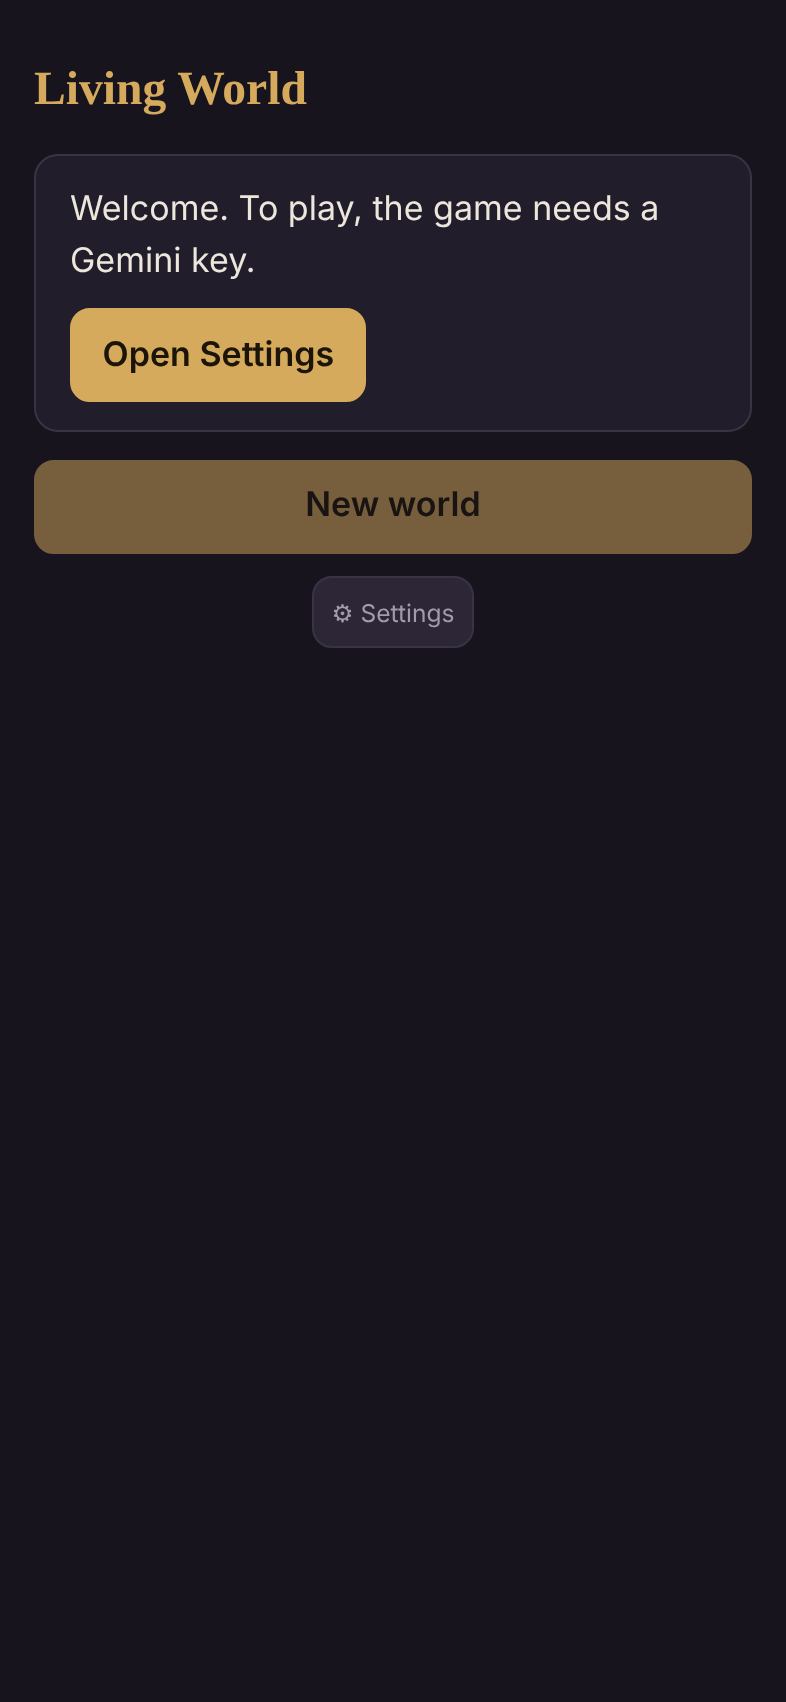
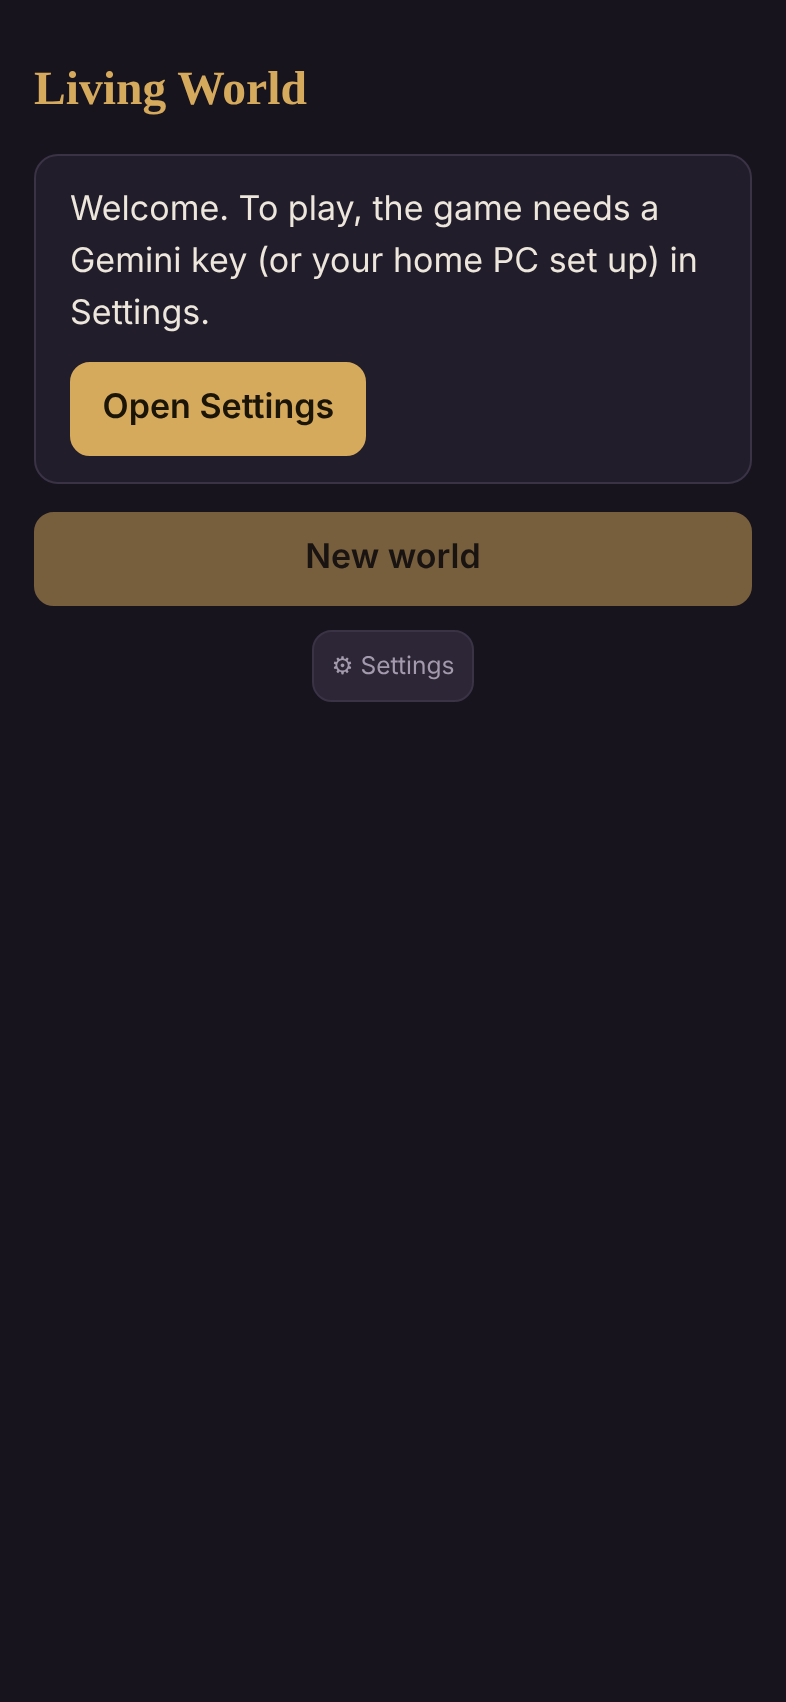
Add Home PC text service (LM Studio or any OpenAI-style server)
Settings gets a choice of Gemini or Home PC, with the PC address, model
(listed from the PC) and optional key. The PC provider uses the
OpenAI-style chat API, asks for JSON answer shapes and falls back to a
plain request if the server refuses them, strips <think> blocks, pulls
JSON out of chatty replies, and explains plainly when the PC cannot be
reached. One model serves every job with no daily allowance.

Claude-Session: https://claude.ai/code/session_01KTifMWeXgEsckXU37s3UBw

diff --git a/js/providers/openai-compat.js b/js/providers/openai-compat.js
@@ -1,0 +1,139 @@
+// Home PC text provider. Talks to a model running on the player's own computer
+// through the OpenAI-style API that LM Studio, Ollama and similar programs offer.
+// Nothing here leaves the player's own devices.
+
+import { salvageNarration } from './gemini.js';
+
+function fail(kind, message, extra = {}) {
+  return { ok: false, kind, message, ...extra };
+}
+
+/** Converts the game's answer shapes (Gemini style) into standard JSON Schema. */
+export function toJsonSchema(schema) {
+  if (!schema || typeof schema !== 'object') return schema;
+  const out = {};
+  if (schema.type) out.type = String(schema.type).toLowerCase();
+  if (schema.description) out.description = schema.description;
+  if (schema.enum) out.enum = schema.enum;
+  if (schema.properties) out.properties = Object.fromEntries(Object.entries(schema.properties).map(([k, v]) => [k, toJsonSchema(v)]));
+  if (schema.required) out.required = schema.required;
+  if (schema.items) out.items = toJsonSchema(schema.items);
+  return out;
+}
+
+/** The narrator's reply: free-form change objects, so only the outer shape is fixed. */
+const NARRATION_SHAPE = {
+  type: 'object',
+  properties: { prose: { type: 'string' }, changes: { type: 'array', items: { type: 'object' } } },
+  required: ['prose', 'changes'],
+};
+
+export function cleanBase(url) {
+  let u = String(url || '').trim().replace(/\/+$/, '');
+  if (!u) return '';
+  if (!/^https?:\/\//i.test(u)) u = 'https://' + u;
+  return u.replace(/\/v1$/, '');
+}
+
+function stripThinking(text) {
+  return text.replace(/<think>[\s\S]*?<\/think>/gi, '').replace(/^[\s\S]*<\/think>/i, '').trim();
+}
+
+/** Pulls the JSON object out of a reply that may have chatter or fences around it. */
+export function extractJson(text) {
+  const t = text.replace(/^```(?:json)?\s*/i, '').replace(/\s*```\s*$/, '').trim();
+  try { return JSON.parse(t); } catch { /* look for an object inside */ }
+  const start = t.indexOf('{');
+  const end = t.lastIndexOf('}');
+  if (start >= 0 && end > start) {
+    try { return JSON.parse(t.slice(start, end + 1)); } catch { /* fall through */ }
+  }
+  return undefined;
+}
+
+/** Turns an HTTP status and body into the same result shape the Gemini provider gives. Pure. */
+export function interpretChat(status, body, { json } = {}) {
+  const apiMsg = body?.error?.message || (typeof body?.error === 'string' ? body.error : '');
+  if (status === 401 || status === 403) return fail('bad_key', 'Your PC refused the request. If you set an API key in its server, put the same key in Settings.', { detail: apiMsg });
+  if (status === 404) return fail('bad_model', `Your PC does not have that model loaded. Open Settings and tap "Check connection" to pick one. ${apiMsg}`.trim(), { detail: apiMsg });
+  if (status >= 500) return fail('server', `Your PC's model server had a problem (code ${status}). ${apiMsg}`.trim(), { detail: apiMsg, retryable: true });
+  if (status !== 200) return fail('error', `Your PC's model server returned an error (code ${status}). ${apiMsg}`.trim(), { detail: apiMsg, retryable: true });
+  const choice = body?.choices?.[0];
+  const raw = choice?.message?.content ?? choice?.text ?? '';
+  const text = stripThinking(String(raw));
+  if (!text) return fail('empty', 'The model on your PC sent back an empty reply. Nothing in your game changed. Resend to try again.', { retryable: true });
+  const truncated = choice?.finish_reason === 'length';
+  if (json) {
+    const data = extractJson(text);
+    if (data !== undefined && data !== null && typeof data === 'object') return { ok: true, text, data, truncated };
+    const rescued = salvageNarration(text);
+    if (rescued) return { ok: true, text, data: rescued, truncated, salvaged: true };
+    return fail('bad_json', truncated
+      ? 'The model on your PC ran out of room before finishing. Resend, or raise the context length in LM Studio.'
+      : 'The model on your PC sent back a reply the game could not read. Resend to try again.', { detail: text.slice(0, 500), retryable: true });
+  }
+  return { ok: true, text, truncated };
+}
+
+export function createOpenAICompatProvider({ getBase, getKey = () => '', fetchFn = (...a) => fetch(...a) }) {
+  const headers = () => {
+    const h = { 'Content-Type': 'application/json' };
+    if (getKey()) h.Authorization = `Bearer ${getKey()}`;
+    return h;
+  };
+  const unreachable = (base) => fail('network',
+    `Could not reach your PC at ${base}. Check that the PC is on, LM Studio's server is running with CORS on, and Tailscale is connected on both the PC and this phone.`,
+    { retryable: true });
+
+  return {
+    id: 'pc',
+    label: 'Home PC (LM Studio)',
+
+    async generate(req) {
+      const base = cleanBase(getBase());
+      if (!base) return fail('no_key', 'No home PC address yet. Open Settings and enter it.');
+      const messages = [];
+      if (req.system) messages.push({ role: 'system', content: req.system });
+      for (const m of req.messages) messages.push({ role: m.role === 'model' ? 'assistant' : 'user', content: m.text });
+      const body = { messages, stream: false };
+      if (req.model) body.model = req.model;
+      if (req.temperature != null) body.temperature = req.temperature;
+      if (req.maxTokens) body.max_tokens = req.maxTokens;
+      if (req.json) {
+        const schema = req.json === true ? NARRATION_SHAPE : toJsonSchema(req.json);
+        body.response_format = { type: 'json_schema', json_schema: { name: 'reply', schema } };
+      }
+      const post = (b) => fetchFn(`${base}/v1/chat/completions`, { method: 'POST', headers: headers(), body: JSON.stringify(b), signal: req.signal });
+      try {
+        let res = await post(body);
+        let parsed = await res.json().catch(() => null);
+        // Some servers do not support answer shapes: ask again with the shape only in words.
+        if (res.status === 400 && body.response_format) {
+          delete body.response_format;
+          messages[0] = { ...messages[0], content: `${messages[0].content}\n\nReply with a single JSON object only, no other text.` };
+          res = await post(body);
+          parsed = await res.json().catch(() => null);
+        }
+        return { ...interpretChat(res.status, parsed, req), status: res.status };
+      } catch (err) {
+        if (err && err.name === 'AbortError') return fail('aborted', 'Request cancelled.');
+        return { ...unreachable(base), detail: String(err) };
+      }
+    },
+
+    async listModels() {
+      const base = cleanBase(getBase());
+      if (!base) return fail('no_key', 'Enter your PC\'s address first.');
+      try {
+        const res = await fetchFn(`${base}/v1/models`, { headers: headers() });
+        const body = await res.json().catch(() => null);
+        if (res.status !== 200) return interpretChat(res.status, body, {});
+        const models = (body?.data || []).map((m) => ({ id: m.id, name: m.id }))
+          .filter((m) => !/embed/i.test(m.id));
+        return { ok: true, models };
+      } catch (err) {
+        return { ...unreachable(base), detail: String(err) };
+      }
+    },
+  };
+}

diff --git a/js/ui/settings-screen.js b/js/ui/settings-screen.js
@@ -51,7 +51,7 @@ export async function openSettings({ onClose } = {}) {
   async function checkKey() {
     await saveKey(true);
     keyStatus.textContent = 'Checking…';
-    const narrator = await getNarrator();
+    const narrator = await getNarrator('gemini');
     const res = await narrator.listModels();
     if (!res.ok) { keyStatus.textContent = res.message; keyStatus.className = 'hint bad'; return; }
     const ids = res.models.map((m) => m.id);
@@ -83,6 +83,51 @@ export async function openSettings({ onClose } = {}) {
     toast('Saved');
   }
 
+  // ----- Which service runs the game master -----
+  const pcUrl = h('input', { value: s.pcUrl, placeholder: 'https://your-pc.tail1234.ts.net', autocapitalize: 'off', spellcheck: false, inputmode: 'url' });
+  const pcModelList = h('datalist#pc-model-list');
+  const pcModel = h('input', { value: s.pcModel, list: 'pc-model-list', placeholder: 'Tap Check connection', autocapitalize: 'off', spellcheck: false });
+  const pcKey = h('input', { type: 'password', value: s.pcKey, placeholder: 'Leave blank unless you set one', autocomplete: 'off', autocapitalize: 'off', spellcheck: false });
+  const pcStatus = h('p.hint');
+  const pcBox = h('div', { style: { display: s.provider === 'pc' ? '' : 'none' } },
+    h('label', 'PC address', pcUrl),
+    h('label', 'Model', pcModel),
+    h('label', 'Key (optional)', pcKey),
+    pcModelList,
+    h('div.row', h('button.primary', { type: 'button', onclick: () => checkPc() }, 'Check connection')),
+    pcStatus);
+
+  async function savePc() {
+    await saveSettings({ pcUrl: pcUrl.value.trim(), pcModel: pcModel.value.trim(), pcKey: pcKey.value.trim() });
+  }
+  [pcUrl, pcModel, pcKey].forEach((el) => el.addEventListener('change', savePc));
+
+  async function checkPc() {
+    await savePc();
+    pcStatus.className = 'hint';
+    pcStatus.textContent = 'Checking…';
+    const res = await (await getNarrator('pc')).listModels();
+    if (!res.ok) { pcStatus.className = 'hint bad'; pcStatus.textContent = res.message; return; }
+    pcModelList.replaceChildren(...res.models.map((m) => h('option', { value: m.id })));
+    if (!res.models.length) { pcStatus.className = 'hint bad'; pcStatus.textContent = 'Connected, but no model is loaded in LM Studio. Load one and check again.'; return; }
+    if (!res.models.some((m) => m.id === pcModel.value.trim())) {
+      pcModel.value = res.models[0].id;
+      await savePc();
+    }
+    pcStatus.className = 'hint good';
+    pcStatus.textContent = `Connected. Using ${pcModel.value}.`;
+  }
+
+  const serviceButtons = NARRATOR_PROVIDERS.map((p) => h('button.seg', {
+    type: 'button',
+    class: s.provider === p.id ? 'seg on' : 'seg',
+    onclick: async (e) => {
+      await saveSettings({ provider: p.id });
+      serviceButtons.forEach((b) => b.classList.toggle('on', b === e.currentTarget));
+      pcBox.style.display = p.id === 'pc' ? '' : 'none';
+    },
+  }, p.id === 'pc' ? 'Home PC' : 'Gemini'));
+
   const sizeButtons = ['small', 'medium', 'large', 'huge'].map((size) => h('button.seg', {
     type: 'button',
     class: s.textSize === size ? 'seg on' : 'seg',
@@ -101,7 +146,12 @@ export async function openSettings({ onClose } = {}) {
       h('div.row', h('button', { type: 'button', onclick: saveKey }, 'Save key'), h('button.primary', { type: 'button', onclick: checkKey }, 'Check key')),
       keyStatus),
     h('section',
-      h('h3', 'Requests used today'),
+      h('h3', 'Game master runs on'),
+      h('div.segmented', serviceButtons),
+      h('p.hint', 'Gemini: free, but Google\'s filter can block explicit scenes. Home PC: private and unfiltered, needs your PC on.'),
+      pcBox),
+    h('section',
+      h('h3', 'Gemini requests used today'),
       usageBox),
     h('section',
       h('h3', 'Text size'),
@@ -109,9 +159,7 @@ export async function openSettings({ onClose } = {}) {
     ...extraSections.map((build) => build()),
     h('section',
       h('details',
-        h('summary', 'Providers and models'),
-        h('label', 'Text provider',
-          h('select', { disabled: NARRATOR_PROVIDERS.length < 2 }, NARRATOR_PROVIDERS.map((p) => h('option', { value: p.id, selected: p.id === s.provider }, p.label)))),
+        h('summary', 'Gemini models and limits'),
         h('label', 'Game-master model (every turn)', gmModel),
         h('label', 'World-building model (world, summaries)', worldModel),
         h('label', 'Game-master daily limit', gmLimit),
@@ -119,7 +167,7 @@ export async function openSettings({ onClose } = {}) {
         modelList,
         h('p.hint', 'Tap "Check key" above to fill in the list of models your key can use.'),
         h('button', { type: 'button', onclick: saveModels }, 'Save models and limits'))),
-    h('p.hint.center', 'Living World · stage 1 · build 12'));
+    h('p.hint.center', 'Living World · stage 1 · build 13'));
 
   renderUsage();
   return overlay('Settings', body, { onClose: () => { unsubscribe(); onClose && onClose(); } });

diff --git a/tests/openai-compat.test.js b/tests/openai-compat.test.js
@@ -1,0 +1,56 @@
+import { test } from 'node:test';
+import assert from 'node:assert/strict';
+import { createOpenAICompatProvider, interpretChat, toJsonSchema, cleanBase, extractJson } from '../js/providers/openai-compat.js';
+
+const reply = (content, finish = 'stop') => ({ choices: [{ message: { content }, finish_reason: finish }] });
+
+test('address is cleaned up', () => {
+  assert.equal(cleanBase('my-pc.tail1.ts.net/'), 'https://my-pc.tail1.ts.net');
+  assert.equal(cleanBase('https://x.ts.net/v1'), 'https://x.ts.net');
+  assert.equal(cleanBase('http://192.168.1.5:1234'), 'http://192.168.1.5:1234');
+});
+
+test('json replies are read even with chatter or thinking around them', () => {
+  assert.deepEqual(interpretChat(200, reply('<think>hmm</think>\n{"prose":"Hi","changes":[]}'), { json: true }).data, { prose: 'Hi', changes: [] });
+  assert.deepEqual(extractJson('Sure! Here it is:\n```json\n{"a":1}\n```'), { a: 1 });
+  assert.equal(interpretChat(200, reply('no json here'), { json: true }).kind, 'bad_json');
+  assert.equal(interpretChat(200, reply('   '), {}).kind, 'empty');
+});
+
+test('schemas are converted to standard JSON Schema', () => {
+  const s = toJsonSchema({ type: 'OBJECT', properties: { k: { type: 'STRING', format: 'enum', enum: ['a'] } }, required: ['k'] });
+  assert.deepEqual(s, { type: 'object', properties: { k: { type: 'string', enum: ['a'] } }, required: ['k'] });
+});
+
+test('sends an OpenAI-style request and retries without an answer shape if refused', async () => {
+  const bodies = [];
+  const fetchFn = async (url, opts) => {
+    assert.equal(url, 'https://pc.ts.net/v1/chat/completions');
+    const b = JSON.parse(opts.body);
+    bodies.push(b);
+    if (b.response_format) return { status: 400, json: async () => ({ error: 'response_format not supported' }) };
+    return { status: 200, json: async () => reply('{"prose":"Rain.","changes":[]}') };
+  };
+  const p = createOpenAICompatProvider({ getBase: () => 'pc.ts.net', fetchFn });
+  const r = await p.generate({ model: 'rp-12b', system: 'sys', messages: [{ role: 'user', text: 'hi' }], json: true, temperature: 0.9, maxTokens: 100 });
+  assert.equal(r.ok, true);
+  assert.equal(r.data.prose, 'Rain.');
+  assert.equal(bodies[0].messages[0].role, 'system');
+  assert.equal(bodies[0].model, 'rp-12b');
+  assert.equal(bodies[0].max_tokens, 100);
+  assert.equal(bodies[0].response_format.type, 'json_schema');
+  assert.equal(bodies[1].response_format, undefined);
+});
+
+test('unreachable PC gives a plain explanation', async () => {
+  const p = createOpenAICompatProvider({ getBase: () => 'https://pc.ts.net', fetchFn: async () => { throw new TypeError('Failed to fetch'); } });
+  const r = await p.generate({ messages: [{ role: 'user', text: 'hi' }] });
+  assert.equal(r.kind, 'network');
+  assert.match(r.message, /Tailscale/);
+});
+
+test('lists loaded models', async () => {
+  const p = createOpenAICompatProvider({ getBase: () => 'https://pc.ts.net', fetchFn: async () => ({ status: 200, json: async () => ({ data: [{ id: 'rocinante-12b' }, { id: 'text-embedding-nomic' }] }) }) });
+  const r = await p.listModels();
+  assert.deepEqual(r.models.map((m) => m.id), ['rocinante-12b']);
+});

diff --git a/js/providers/index.js b/js/providers/index.js
@@ -5,18 +5,24 @@
 import { loadSettings } from '../settings.js';
 import { recordRequest, usedToday } from '../usage.js';
 import { createGeminiProvider, compactSchema } from './gemini.js';
+import { createOpenAICompatProvider } from './openai-compat.js';
 
 let settingsRef = null;
 
 const narrators = {
   gemini: createGeminiProvider({ getKey: () => (settingsRef ? settingsRef.geminiKey.trim() : '') }),
+  pc: createOpenAICompatProvider({
+    getBase: () => (settingsRef ? settingsRef.pcUrl : ''),
+    getKey: () => (settingsRef ? (settingsRef.pcKey || '').trim() : ''),
+  }),
 };
 
 export const NARRATOR_PROVIDERS = Object.values(narrators).map((p) => ({ id: p.id, label: p.label }));
 
-export async function getNarrator() {
+/** The chosen text provider, or a specific one by id. */
+export async function getNarrator(id) {
   settingsRef = await loadSettings();
-  return narrators[settingsRef.provider] || narrators.gemini;
+  return narrators[id || settingsRef.provider] || narrators.gemini;
 }
 
 const RETRY_DELAYS_MS = [2000, 5000];
@@ -35,9 +41,11 @@ const transient = (r) => r.kind === 'server' || r.kind === 'network';
 export async function ask({ job = 'gm', ...req }) {
   const narrator = await getNarrator();
   const s = settingsRef;
-  let model = job === 'world' ? s.worldModel : s.gmModel;
+  const onPc = narrator.id === 'pc';
+  // The home PC runs one model for every job and has no daily allowance.
+  let model = onPc ? (s.pcModel || '') : job === 'world' ? s.worldModel : s.gmModel;
   let fellBack = false;
-  if (job === 'world' && (await usedToday(s.worldModel)) >= s.worldDailyLimit) {
+  if (!onPc && job === 'world' && (await usedToday(s.worldModel)) >= s.worldDailyLimit) {
     model = s.gmModel;
     fellBack = true;
   }
@@ -46,7 +54,8 @@ export async function ask({ job = 'gm', ...req }) {
     let r = await narrator.generate({ ...req, model: m });
     if (r.status && r.status !== 429) await recordRequest(m);
     for (const [i, delay] of RETRY_DELAYS_MS.entries()) {
-      if (!transient(r)) break;
+      // An unreachable PC will not answer a few seconds later either.
+      if (!transient(r) || (onPc && r.kind === 'network')) break;
       await sleep(delay);
       // The last retry asks for plain JSON with the shape described in words,
       // in case the strict answer format is what the server is choking on.
@@ -65,7 +74,7 @@ export async function ask({ job = 'gm', ...req }) {
     result = await narrator.generate({ ...req, model });
     if (result.status && result.status !== 429) await recordRequest(model);
   }
-  if (job === 'world' && !fellBack && (result.kind === 'rate_limit' || transient(result))) {
+  if (!onPc && job === 'world' && !fellBack && (result.kind === 'rate_limit' || transient(result))) {
     model = s.gmModel;
     fellBack = true;
     result = await attempt(model);

diff --git a/js/ui/home.js b/js/ui/home.js
@@ -8,15 +8,16 @@ import { renderNewGame } from './new-game.js';
 
 export async function renderHome(root, app) {
   const s = await loadSettings();
+  const ready = s.provider === 'pc' ? !!s.pcUrl : !!s.geminiKey;
   const worlds = await listWorlds();
   const when = (t) => new Date(t).toLocaleString(undefined, { dateStyle: 'medium', timeStyle: 'short' });
 
   const content = h('div.page',
     h('h1.big-title', 'Living World'),
-    !s.geminiKey ? h('div.notice',
-      h('p', 'Welcome. To play, the game needs a Gemini key.'),
+    !ready ? h('div.notice',
+      h('p', 'Welcome. To play, the game needs a Gemini key (or your home PC set up) in Settings.'),
       h('button.primary', { type: 'button', onclick: () => openSettings({ onClose: () => renderHome(root, app) }) }, 'Open Settings')) : null,
-    h('button.primary.wide', { type: 'button', disabled: !s.geminiKey, onclick: () => renderNewGame(root, app) }, 'New world'),
+    h('button.primary.wide', { type: 'button', disabled: !ready, onclick: () => renderNewGame(root, app) }, 'New world'),
     worlds.length ? h('h3.sub', 'Your worlds') : null,
     worlds.map((w) => h('div.world-row',
       h('button.list-btn', { type: 'button', onclick: async () => app.play(await loadWorld(w.id)) },

diff --git a/js/settings.js b/js/settings.js
@@ -13,6 +13,9 @@ export const DEFAULT_SETTINGS = {
   undoEnabled: true,
   showDice: true,
   autoToneDown: true,
+  pcUrl: '',          // home PC address, e.g. https://my-pc.tail1234.ts.net
+  pcModel: '',        // model loaded in LM Studio
+  pcKey: '',          // optional, only if the PC server asks for one
 };
 
 let cache = null;
